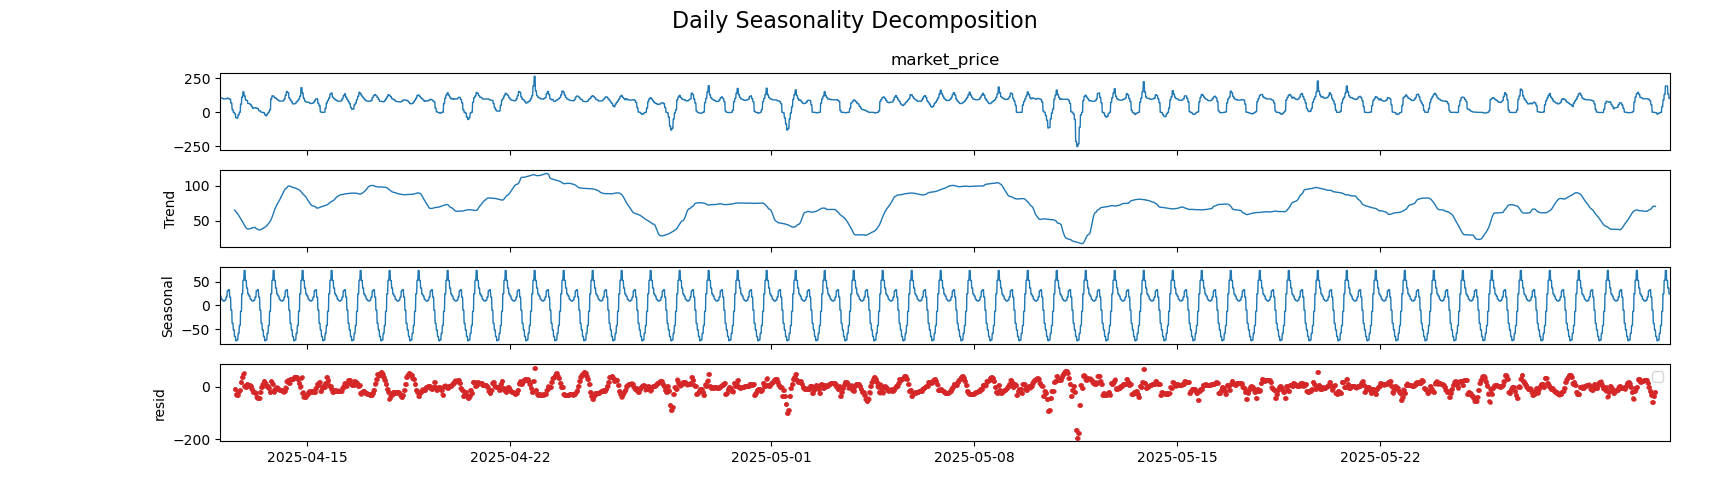
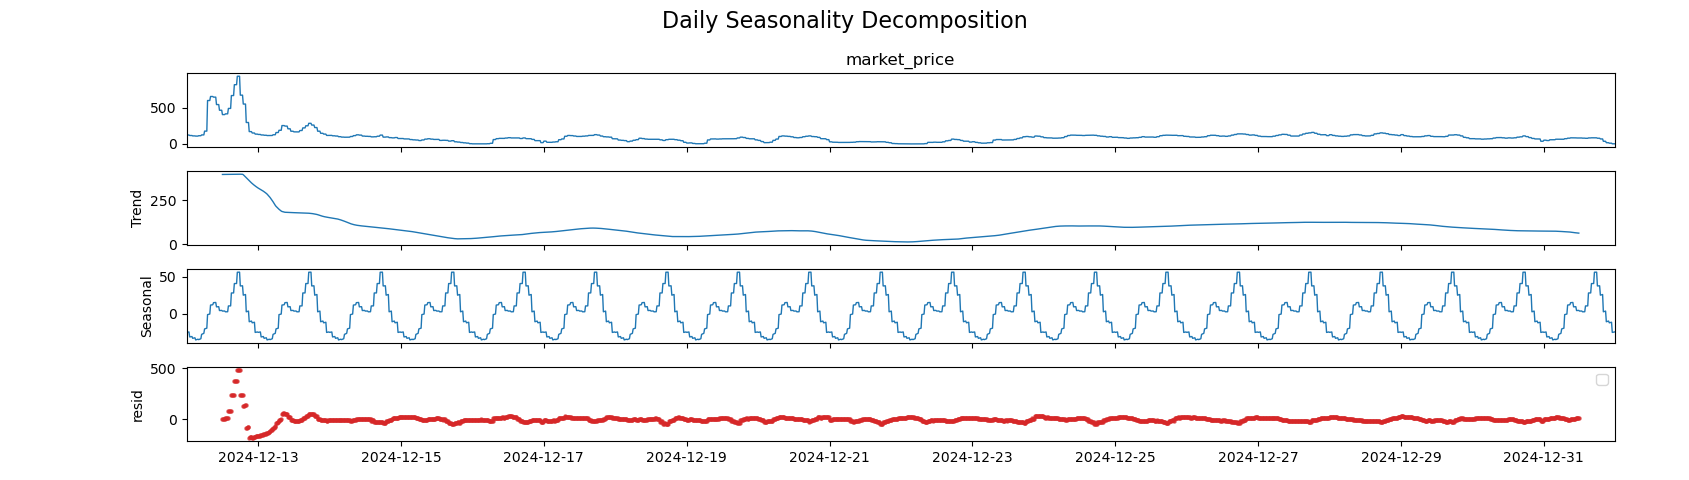
Train the SARIMAX model with the latest data and save the model to predict energy prices for the next 90 days.

diff --git a/src/energy_price_data_analysis.py b/src/energy_price_data_analysis.py
@@ -7,6 +7,7 @@ from sklearn.metrics import mean_absolute_error, mean_squared_error
 import numpy as np
 import matplotlib.pyplot as plt
 from statsmodels.tsa.seasonal import seasonal_decompose
+import time
 
 
 temperature_data = pd.read_csv("data/temperature_data_01:21-05:25.csv")
@@ -23,9 +24,6 @@ temperature_data = temperature_data[cols]
 
 market_data = energy_prices.adjust_df_format(energy_prices.get_german_price_data())
 
-print(market_data.info())
-print(temperature_data.info())
-
 market_data = market_data.sort_values('datetime')
 temperature_data = temperature_data.sort_values('datetime')
 
@@ -37,7 +35,7 @@ combined_data = pd.merge_asof(
     direction='backward'
 )
 
-
+# save combined data to CSV
 combined_data.to_csv("data/combined_market_temperature_data.csv", index=False)
 
 def plot_energy_prices(data: pd.DataFrame):
@@ -78,7 +76,7 @@ def seasonal_decompose_and_plot(series: pd.Series):
     :param series: Time series data.
     """
     # Daily seasonality (96 periods per day for 15-min intervals)
-    decomp_daily = seasonal_decompose(series.tail(96 * 50), model='additive', period=96)
+    decomp_daily = seasonal_decompose(series.tail(96 * 20), model='additive', period=96)
     fig1 = decomp_daily.plot()
     fig1.suptitle('Daily Seasonality Decomposition', fontsize=16)
     # Reduce marker size for residual and seasonal subplots
@@ -101,8 +99,8 @@ def seasonal_decompose_and_plot(series: pd.Series):
     plt.show()
 
     # Monthly seasonality
-    daily_data = series.resample('D').mean()  # Resample to daily frequency
-    decomp_monthly = seasonal_decompose(daily_data, model="additive", period=365)
+    monthly_data = series.resample('D').mean()  # Resample to daily frequency
+    decomp_monthly = seasonal_decompose(monthly_data, model="additive", period=30)  # 30 days for monthly seasonality
     fig2 = decomp_monthly.plot()
     fig2.suptitle('Monthly Seasonality Decomposition', fontsize=16)
     # Reduce marker size for residual and seasonal subplots
@@ -128,4 +126,20 @@ check_stationarity(combined_data['market_price'])
 
 # Set the index to the datetime column before decomposition and plotting
 series_with_datetime_index = combined_data.set_index('datetime')['market_price']
-seasonal_decompose_and_plot(series_with_datetime_index)
+# seasonal_decompose_and_plot(series_with_datetime_index)
+
+# lags = 96 for 15-minute intervals, adjust as needed
+def plot_acf_pacf(series: pd.Series, lags=96):
+    """
+    Plot ACF and PACF for a time series.
+    
+    :param series: Time series data.
+    :param lags: Number of lags to consider.
+    """
+    fig, axes = plt.subplots(1, 2, figsize=(16, 5))
+    plot_acf(series, lags=lags, ax=axes[0])
+    plot_pacf(series, lags=lags, ax=axes[1])
+    axes[0].set_title('Autocorrelation Function (ACF)')
+    axes[1].set_title('Partial Autocorrelation Function (PACF)')
+    plt.tight_layout()
+    plt.show()

diff --git a/src/energy_prices.py b/src/energy_prices.py
@@ -1,14 +1,14 @@
 import pandas as pd
 import matplotlib.pyplot as plt
 
-def get_german_price_data():
-    price_data = pd.read_csv('data/market_prices_01:21-05:25.csv', sep=';')
+def get_german_price_data(file_path: str = 'data/training_dataset.csv') -> pd.DataFrame:
+    price_data = pd.read_csv(file_path, sep=';')
     german_price_data = price_data.iloc[:,0:3]
     return german_price_data
 
 def adjust_df_format(df: pd.DataFrame) -> pd.DataFrame:
     df.drop(columns=['Datum bis'], inplace=True)
-    df.rename(columns={'Datum von': 'datetime', 'Deutschland/Luxemburg [€/MWh] Berechnete Auflösungen': 'market_price'}, inplace=True)
+    df.columns.values[0:2] = ['datetime', 'market_price']
     df["datetime"] = pd.to_datetime(df["datetime"], format='%d.%m.%Y %H:%M')
     df["market_price"] = (df["market_price"].str.replace(',', '.').astype(float)
     )

diff --git a/src/energy_usage_reader.py b/src/energy_usage_reader.py
@@ -51,4 +51,5 @@ def calculate_past_cost(df: pd.DataFrame) -> float:
     cost = round(cost, 2)  # Round to 2 decimal places
     return cost
 
+
 print("market price of energy consumed in the last year: " + str(calculate_past_cost(adjusted_df)) + " Euro")
